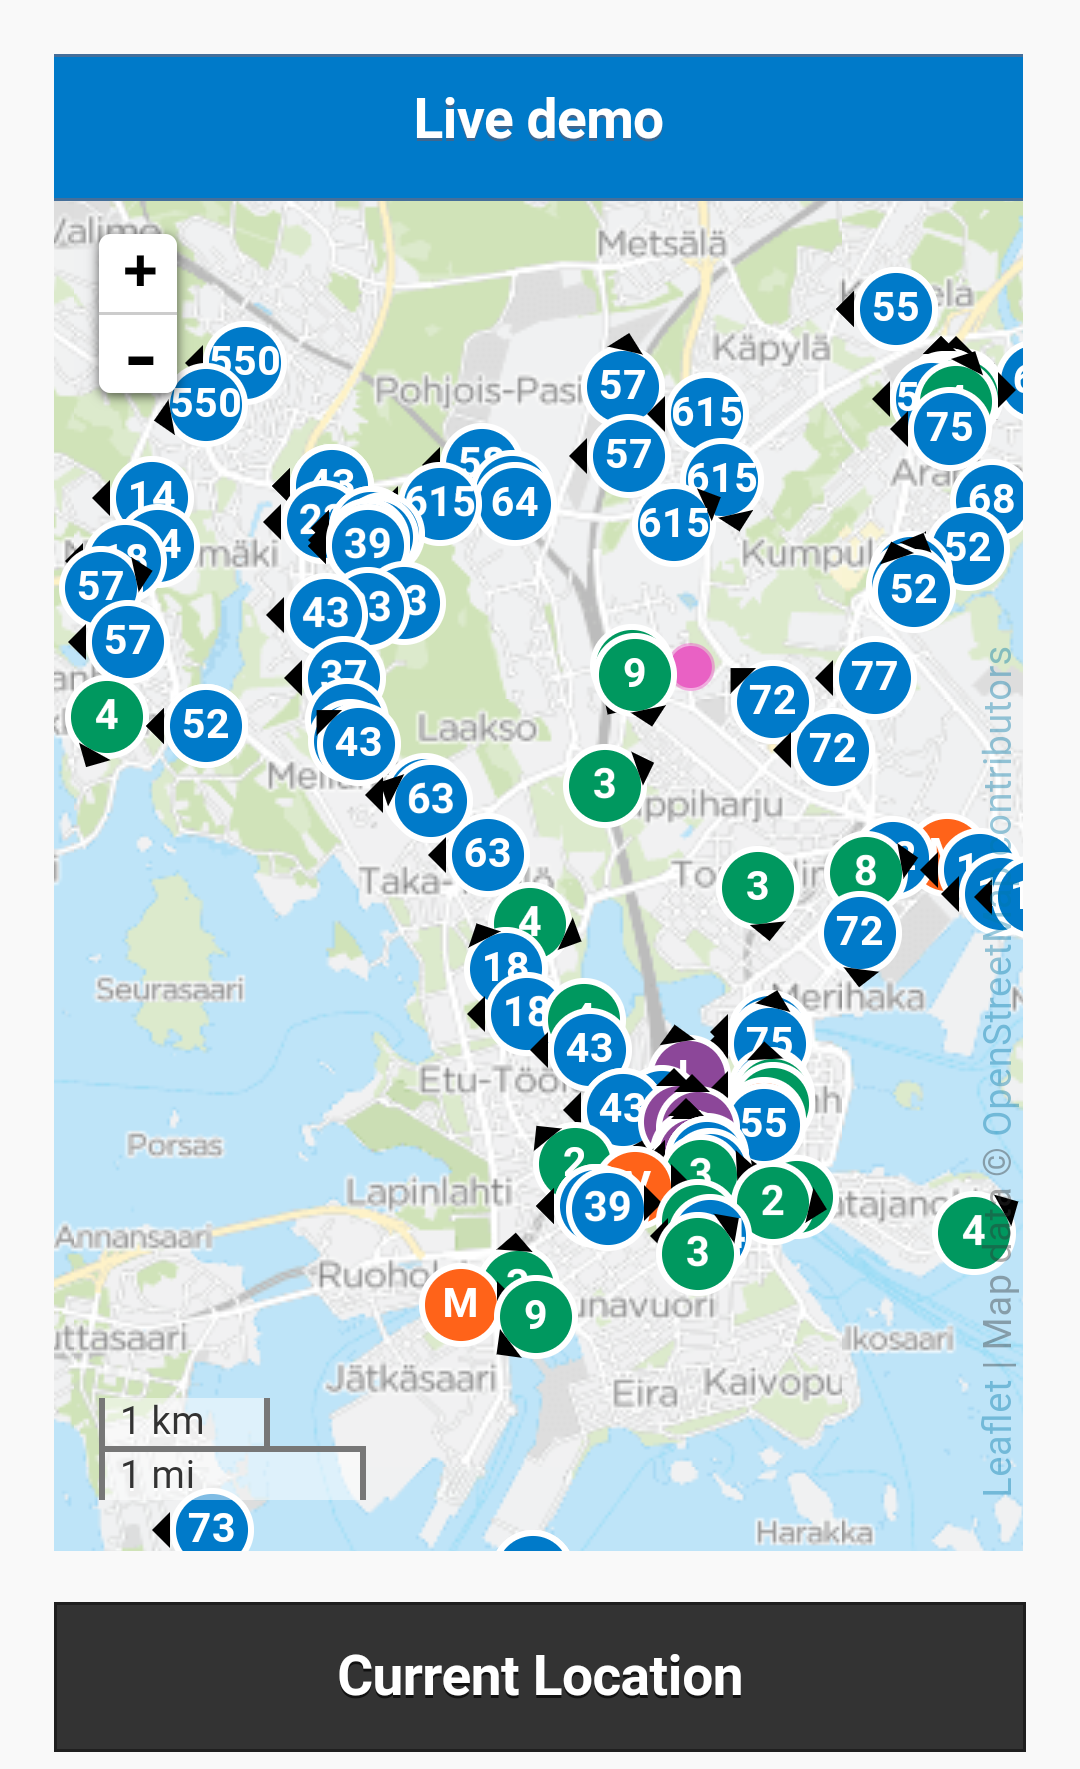
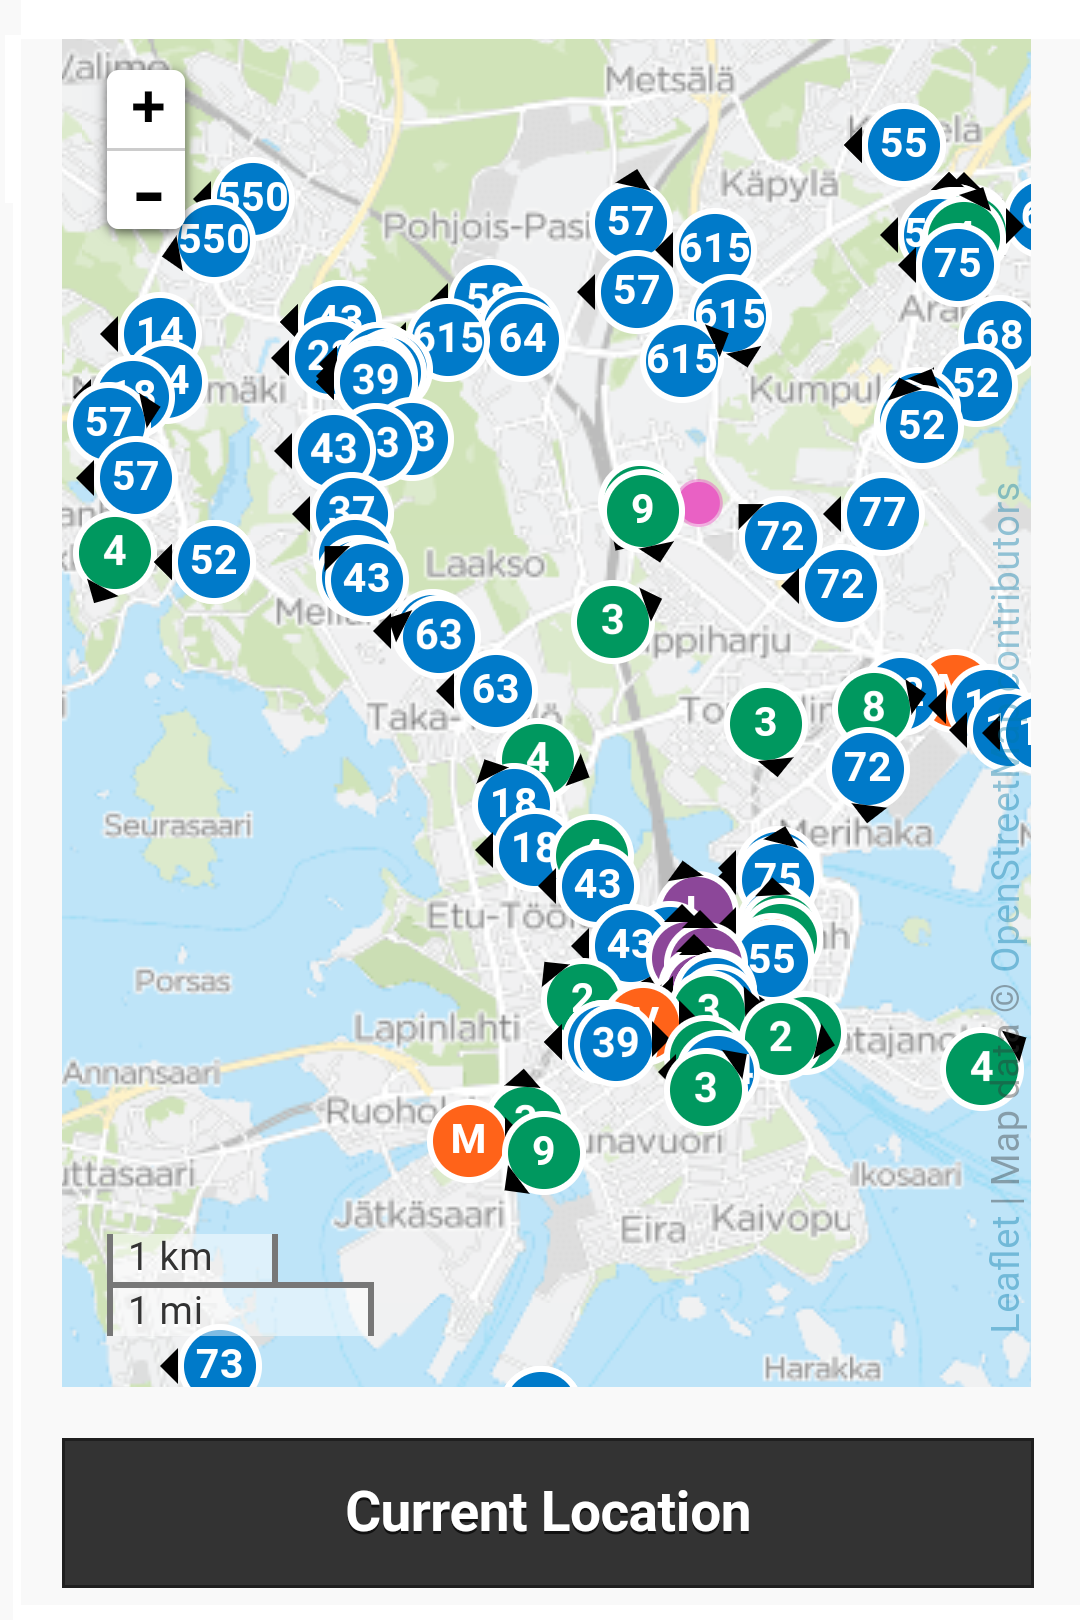
v8 fixes 5

diff --git a/www/index.html b/www/index.html
@@ -33,7 +33,7 @@
             }
         </style>
 </head>
-<body>
+<body  style="display: none;">
 <script type="text/javascript" src="cordova.js"></script>
 <script type="text/javascript" src="js/admob.js"></script>
 <script type="text/javascript" src="js/index.js"></script>
@@ -55,7 +55,7 @@
              There are several pages in this index.html document. -->
         <!-- Front page -->
         
-        <div id="live-page" data-role="page" style="display: none;">
+        <div id="live-page" data-role="page">
               <div data-role="header">
                 <div data-role="navbar">
                   <ul>

diff --git a/www/js/admob.js b/www/js/admob.js
@@ -76,7 +76,7 @@
         document.addEventListener('onAdPresent', function (data) { });
         document.addEventListener('onAdLeaveApp', function (data) { });
         document.addEventListener('onAdDismiss', function (data) 
-        { document.getElementById("live-page").style.display = "block"; 
+        { document.body.style.display = "block"; 
           document.getElementById("splashscreen").style.display = 'none';        
         });
     }
